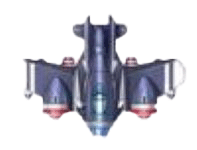
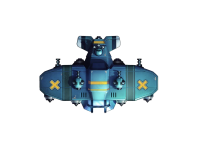
modified powerup related. change some images

diff --git a/src/main/java/org/myProject/GameWin.java b/src/main/java/org/myProject/GameWin.java
@@ -1,7 +1,5 @@
 package org.myProject;
 
-import com.jogamp.opengl.math.geom.Frustum;
-import org.bson.Document;
 import org.myProject.obj.*;
 import org.myProject.utils.DB;
 import org.myProject.utils.GameUtils;
@@ -19,7 +17,7 @@ import java.util.Timer;
  * bullets, and game messages. It implements the KeyListener interface
  * to receive keyboard input events from the user.
  *
- * @author: YumoZhou
+ * @author YumoZhou
  */
 public class GameWin extends JFrame {
 
@@ -286,11 +284,10 @@ public class GameWin extends JFrame {
      */
     @Override
     public void paint(Graphics g) {
-
         if (offSreenimage == null) {
             offSreenimage = createImage(width, height);
         }
-        // Get the brush object of offScrenimage
+        // Get the brush object of offScreen image
         Graphics gimage = offSreenimage.getGraphics();
         // Fill a region with a width of 600 and a height of 600
         gimage.fillRect(0, 0, width, height);
@@ -303,17 +300,15 @@ public class GameWin extends JFrame {
         }
         // Games start
         if (state == 1) {
-            /**
-             * GameUtils.gameObjList.addAll(GameUtils.explodeObjList);
-             */
-            // PowerUpsObj.spawnPowerUp(this);
-            // db.put(planeobj.getName(), planeobj.getScore());
-
             for (int i = 0; i < GameUtils.gameObjList.size(); i++) {
                 GameUtils.gameObjList.get(i).paintself(gimage);
             }
 
             GameUtils.gameObjList.removeAll(GameUtils.removeobjList);
+        }
+        //game pause
+        if(state == 2){
+            GameUtils.drawWord(gimage, "Pause", Color.red, 40, 180, 300);
         }
         // game over
         if (state == 3) {
@@ -325,7 +320,6 @@ public class GameWin extends JFrame {
         // Draw the new picture to the main window at once
         g.drawImage(offSreenimage, 0, 0, null);
         count++;
-
     }
 
     /**
@@ -344,16 +338,6 @@ public class GameWin extends JFrame {
 
         }
 
-        /**
-         * enemy fighter
-         * The first if statement set each enemy to be 35 away from each other
-         * horizontally.
-         * And add them into enemyObj list and then add them into gameObj list.
-         * The total number of enemy on screen is 12. This could be change base
-         * on the game progress.
-         * The for loop, loop through the enemy in the enemyObj list and determine how
-         * far they move down the window.
-         */
         if (enemyCount == 0) {
             int x = 32;
             for (int i = 0; i < 12; i++) {
@@ -372,9 +356,6 @@ public class GameWin extends JFrame {
             GameUtils.gameObjList.addAll(GameUtils.enemyObjList);
         }
 
-        /**
-         * Make the enemy plane fly in reversed V formation
-         */
         int y = 0;
         for (EnemyObj enemy : GameUtils.enemyObjList) {
             if (y < 2 || y >= 10) {
@@ -388,9 +369,7 @@ public class GameWin extends JFrame {
             }
             y++;
         }
-        /**
-         * Spawn the enemy boss every 3 waves.
-         */
+
         if (this.bossAppear) {
             GameUtils.gameObjList.add(new BossObj(GameUtils.bossimg, 280, -120, 50, 50, 1, this));
         }
@@ -404,7 +383,5 @@ public class GameWin extends JFrame {
     public static void main(String[] args) {
         GameWin Gamewin = new GameWin();
         Gamewin.launch();
-
     }
-
 }

diff --git a/src/main/java/org/myProject/obj/BgObj.java b/src/main/java/org/myProject/obj/BgObj.java
@@ -6,13 +6,17 @@ import java.awt.*;
  *The BgObj class represents a background object in the game.
  * It inherits from the GameObj class.
  *
- * @author: YumoZhou
+ * @author YumoZhou
  */
 public class BgObj extends GameObj {
     //Rewrite constructor and paintself method
     public BgObj() {
         super();
     }
+    //the height of the background image is 1024,
+    // the height of the window is 600,
+    // use -400 to keep resetting the position of the image.
+    private static final int a = -400;
 
     /**
      *Constructs a new BgObj instance with the specified image, x coordinate, y coordinate, and speed.
@@ -34,7 +38,7 @@ public class BgObj extends GameObj {
         super.paintself(gImage);
         y+=speed;
         if(y>=0){
-            y = -400;
+            y = a;
         }
     }
 }

diff --git a/src/main/java/org/myProject/utils/GameUtils.java b/src/main/java/org/myProject/utils/GameUtils.java
@@ -9,7 +9,7 @@ import java.util.List;
 /**
  *A utility class containing various game-related images and lists of game objects.
  *
- * @author: YumoZhou
+ * @author YumoZhou
  */
 public class GameUtils {
     // Background picture
@@ -52,7 +52,7 @@ public class GameUtils {
     public static List<PowerUpsObj> powerUpsObjList4 = new ArrayList<>();
 
     public static Image powerups = Toolkit.getDefaultToolkit().getImage("image/powerup.jpg");
-    public static Image powerups2 = Toolkit.getDefaultToolkit().getImage("image/shell.png");
+    public static Image powerups2 = Toolkit.getDefaultToolkit().getImage("image/powerup2.png");
 
     /**
      * Draws a string on the specified graphics object using the specified color, size, and position.

diff --git a/src/main/java/org/myProject/obj/GameObj.java b/src/main/java/org/myProject/obj/GameObj.java
@@ -6,7 +6,7 @@ import java.awt.*;
 /**
  *A class that represents a game object with a position, size, image, and moving speed.
  *
- * @author: YumoZhou
+ * @author YumoZhou
  */
 public class GameObj {
     Image img;
